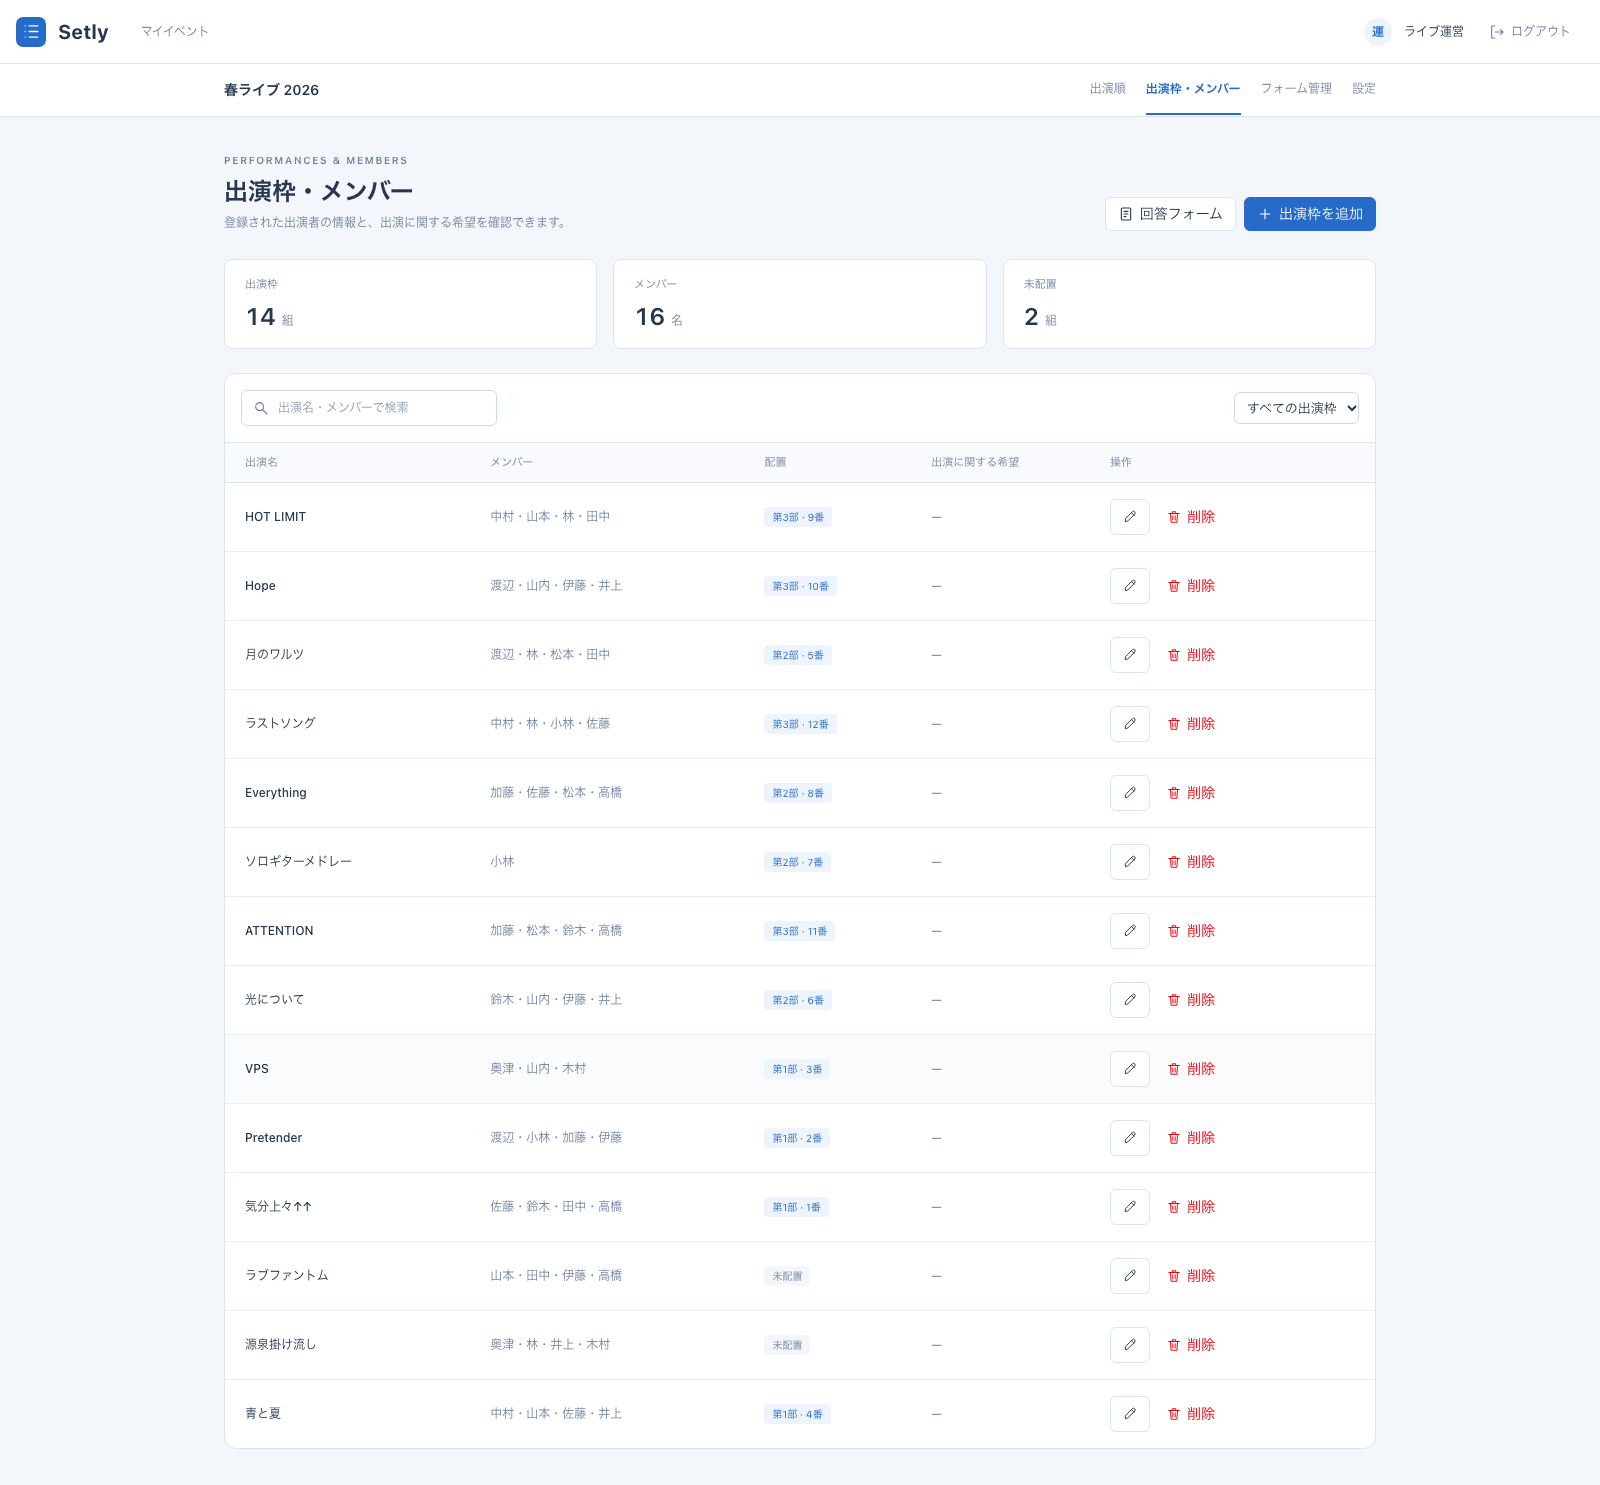
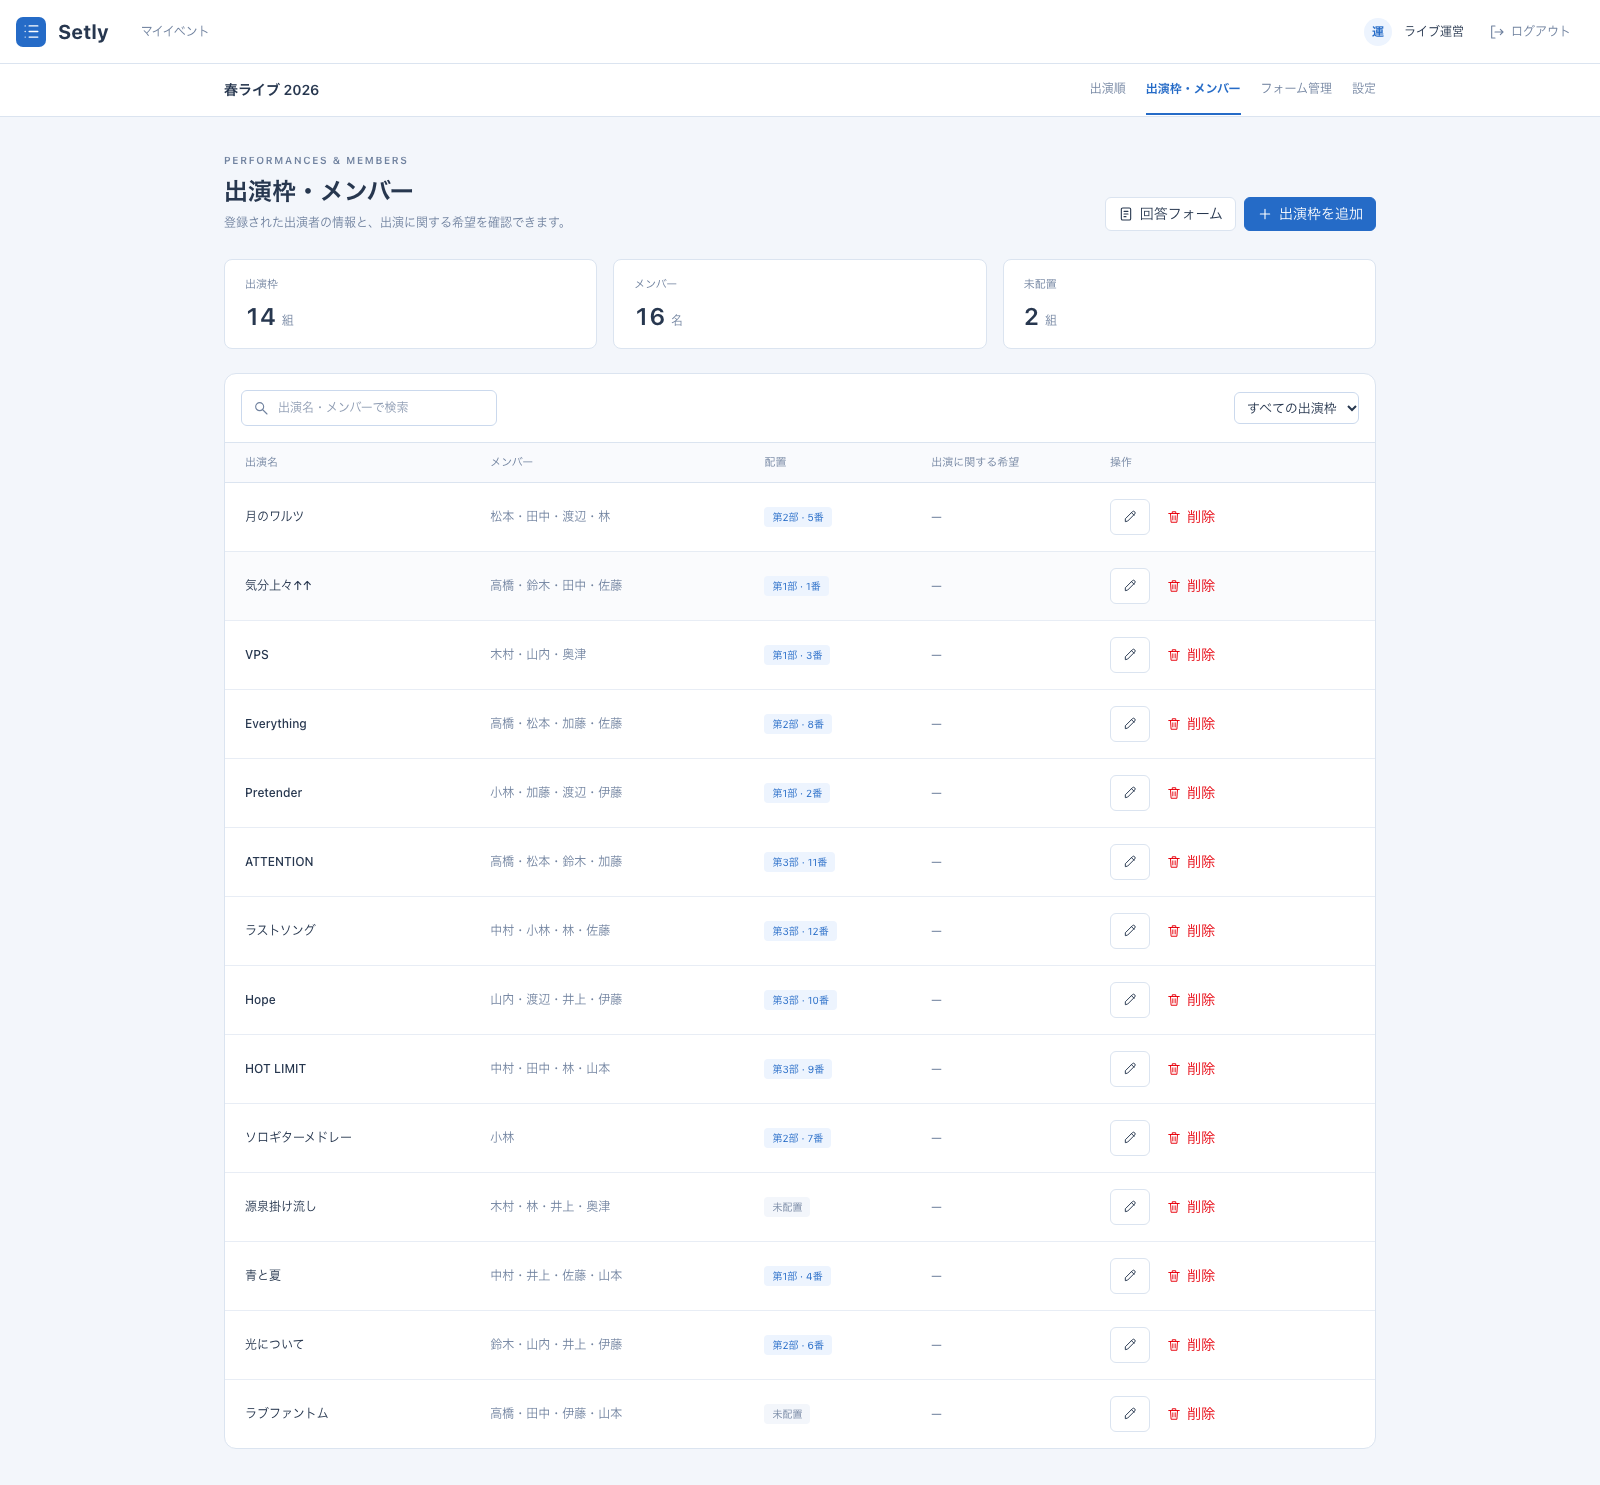
refs #88 バンド削除時に生成元の制約も削除する

diff --git a/apps/backend/test/routes/bands.test.ts b/apps/backend/test/routes/bands.test.ts
@@ -8,6 +8,7 @@ import {
   bandOrder,
   bands,
   chatMessages,
+  constraints,
   events,
   users,
 } from '../../src/db/schema'
@@ -94,7 +95,7 @@ it('deletes an assigned band and leaves a vacant slot and preserves every other 
     { bandId: 'a-b4', partId: 'a-p2', order: 0 },
   ])
 })
-it('can delete the final band while preserving the member roster, parts and constraints', async () => {
+it('can delete the final band while preserving the member roster, parts and constraints without a source', async () => {
   const before = (await snapshot())!
   expect((await remove('a-b1')).status).toBe(200)
   const revision = (await snapshot())!.event.updatedAt
@@ -107,19 +108,38 @@ it('can delete the final band while preserving the member roster, parts and cons
   expect(after.members).toHaveLength(1)
   expect(after.parts).toHaveLength(2)
   expect(after.constraints).toEqual(
-    before.constraints.map((row) => ({ ...row, sourceBandId: null })),
+    before.constraints.filter((row) => row.sourceBandId === null),
   )
 })
-it('deletes a referenced band, retaining constraint JSON and clearing only its source link', async () => {
+it('deletes all constraints sourced from the band, retaining target-only and other-source constraints', async () => {
+  await db.insert(constraints).values([
+    {
+      constraintId: 'a-c3',
+      eventId: seed.event.eventId,
+      sourceBandId: 'a-b1',
+      constraintJson: JSON.stringify({
+        ...seed.constraints.constraints[0].constraint,
+        constraint_id: 'a-c3',
+        enabled: false,
+        targets: { band_id: 'a-b2' },
+      }),
+    },
+    {
+      constraintId: 'a-c4',
+      eventId: seed.event.eventId,
+      sourceBandId: 'a-b2',
+      constraintJson: JSON.stringify({
+        ...seed.constraints.constraints[0].constraint,
+        constraint_id: 'a-c4',
+      }),
+    },
+  ])
   const before = (await snapshot())!
   expect((await remove('a-b1')).status).toBe(200)
   const after = (await snapshot())!
   expect(after.bands.map((band) => band.bandId)).toEqual(['a-b2'])
   expect(after.constraints).toEqual(
-    before.constraints.map((row) => ({
-      ...row,
-      sourceBandId: row.sourceBandId === 'a-b1' ? null : row.sourceBandId,
-    })),
+    before.constraints.filter((row) => row.sourceBandId !== 'a-b1'),
   )
   expect(after.members).toEqual(before.members)
 })

diff --git a/apps/frontend/src/features/participants/pages/ParticipantsPage.tsx b/apps/frontend/src/features/participants/pages/ParticipantsPage.tsx
@@ -174,7 +174,7 @@ export function ParticipantsPage() {
       {controller.deleteTarget && (
         <ConfirmDialog
           title="バンドを削除"
-          message={`「${controller.deleteTarget.name}」を削除しますか？所属・配置と希望も削除し、空いた出演枠は未設定のまま残します。メンバー名簿と他バンドの所属は残ります。この操作は取り消せません。`}
+          message={`「${controller.deleteTarget.name}」を削除しますか？所属・配置・希望と、このバンドの希望から作られた制約も削除し、空いた出演枠は未設定のまま残します。メンバー名簿と他バンドの所属は残ります。この操作は取り消せません。`}
           error={controller.deleteError}
           busy={controller.deleteBusy}
           onCancel={controller.cancelDelete}

diff --git a/apps/backend/src/repositories/bands.ts b/apps/backend/src/repositories/bands.ts
@@ -31,11 +31,8 @@ export function bandsRepository(
               updatedAt: sql`CASE WHEN ${events.createdUserId} = ${userId} AND ${events.isDeleted} = 0 AND ${events.updatedAt} = ${expected} AND ${exists(target)} THEN ${updatedAt} ELSE NULL END`,
             })
             .where(eq(events.eventId, eventId)),
-          // Keep the constraint JSON; only detach its foreign-key source metadata.
-          db
-            .update(constraints)
-            .set({ sourceBandId: null })
-            .where(eq(constraints.sourceBandId, bandId)),
+          // Delete constraints originating from this band; target-only references remain.
+          db.delete(constraints).where(eq(constraints.sourceBandId, bandId)),
           db
             .delete(bands)
             .where(and(eq(bands.bandId, bandId), eq(bands.eventId, eventId))),

diff --git a/apps/frontend/e2e/band-deletion.e2e.ts b/apps/frontend/e2e/band-deletion.e2e.ts
@@ -36,6 +36,7 @@ test('confirms or cancels band deletion, retains the roster and persists assigne
   await button.click()
   const dialog = page.getByRole('dialog', { name: 'バンドを削除', exact: true })
   await expect(dialog).toContainText('「Pretender」を削除しますか？')
+  await expect(dialog).toContainText('このバンドの希望から作られた制約も削除')
   await page.keyboard.press('Escape')
   await expect(dialog).toHaveCount(0)
   await expect(button).toBeFocused()

diff --git a/docs/frontend.md b/docs/frontend.md
@@ -44,7 +44,7 @@ URLのeventIdはDBに保存されたイベントID。存在しないイベント
 - 配置済みの出演枠は移動先へ挿入し、部内の実際の出演順を詰め直す。固定枠への直接配置や、他の固定枠の絶対位置が変わる移動は拒否する。未配置からの追加も同じ条件で検証する。
 - 「並べ替え」ハンドルにフォーカスし、Spaceで持ち上げ、上下の矢印で移動先を選び、Spaceで確定する。Escapeで取り消す。確定・取消後もハンドルにフォーカスが残る。番号入力でも同じ配置操作ができ、範囲外の入力は確定時に短いエラーを表示する。番号入力もEscapeで入力前の値に戻る。
 - 部数は1〜8、各部は1〜20枠。縮小で外れた出演枠は未配置へ移す。固定位置がずれる変更や、制約の位置・部参照が範囲外になる変更は拒否する。無効な条件も参照を保持するため、必要なら先に編集・削除する。
-- メンバー対象の間隔条件は名簿から出演枠を集め直す。バンド本体の削除は「出演枠・メンバー」の各行で編集リンク横の「削除」から行う。対象名と「削除しますか？」を確認し、確定した場合だけAPIへ送る。メンバー名簿・他バンドの所属は残し、空いた出演枠を未設定のまま残す。制約に参照されていても削除でき、制約本体は残る。
+- メンバー対象の間隔条件は名簿から出演枠を集め直す。バンド本体の削除は「出演枠・メンバー」の各行で編集リンク横の「削除」から行う。対象名と「削除しますか？」を確認し、確定した場合だけAPIへ送る。メンバー名簿・他バンドの所属は残し、空いた出演枠を未設定のまま残す。制約に参照されていても削除でき、このバンドの希望から作られた制約は一緒に削除し、それ以外の制約は残す。
 - 達成判定は現在の配置に対するもの。対象に未配置の出演枠があれば未判定、無効なら判定対象外。ソフト条件の重み付きスコア・最適性は扱わない。
 - CSVはUTF-8 BOM付き。部・順番号・出演名・メンバー・固定を出力し、未配置も末尾に含める。数式として解釈される先頭文字を含む値は文字列として出力する。
 

diff --git a/docs/product.md b/docs/product.md
@@ -36,7 +36,7 @@
 ## 現在のフロントエンド
 
 - 固定イベント・名簿・メモリ内ストア・モック切替は持たない。DBが空なら空の一覧を表示し、API失敗時はエラーを表示する。再読み込みでサンプルを復元しない。テスト専用の入力例や外部通信の差し替えはアプリの業務データとして使わない。
-- 出演登録フォームの初回登録・登録内容の更新は実APIへ保存し、管理画面でも同じ名簿を取得する。希望・連絡先・受付設定・回答履歴の保存、バンド本体の削除は管理画面で確認後に実行する。メンバー名簿と他バンドの所属は残し、制約参照があっても削除でき、制約本体は残す。CSV取込は後続。
+- 出演登録フォームの初回登録・登録内容の更新は実APIへ保存し、管理画面でも同じ名簿を取得する。希望・連絡先・受付設定・回答履歴の保存、バンド本体の削除は管理画面で確認後に実行する。メンバー名簿と他バンドの所属は残し、制約参照があっても削除でき、削除対象が生成元の制約は一緒に削除し、それ以外の制約は残す。CSV取込は後続。
 - 手動追加は6種類の条件から選び、対象・部・位置・数値・強さを入力し、日本語の要約を確認して追加する。自由文を条件として保存したり、チャット送信だけで制約を適用したりしない。
 - メンバーはIDで識別する。掛け持ちは登録済みのメンバーを選び、同名の別人は新しいメンバーとして登録する。
 - 現在の並びに対して制約ごとの達成・違反を判定する。対象が未配置なら未判定、無効なら判定から除外する。ソフト条件の合計点や優先度によるスコアは算出しない。

diff --git a/apps/backend/docs/api/bands.md b/apps/backend/docs/api/bands.md
@@ -14,9 +14,9 @@
 | リクエスト・レスポンス | application/json                                                         |
 | 所有者                 | 認証接続前は既存管理APIと同じ仮所有者 `demo-owner`。未削除イベントに限定 |
 
-バンド本体・希望原文・対象バンドの所属・配置を削除し、他バンドの`order`は変更せず、空いた位置を未設定のまま残す。メンバー名簿、他バンドの所属、部、制約、会話は保持する。最後のバンドも削除できる。
+バンド本体・希望原文・対象バンドの所属・配置を削除し、他バンドの`order`は変更せず、空いた位置を未設定のまま残す。メンバー名簿、他バンドの所属、部、生成元が異なる制約、会話は保持する。最後のバンドも削除できる。
 
-制約から参照されていても削除する。対象ID・位置指定・有効状態を含む制約JSONは変更しない。外部キーのある生成元sourceBandIdだけ、削除対象を指す場合に同じD1 batchでnullにする。削除後に存在しない対象を参照する制約や範囲外の指定が残ることを許容する。
+制約から参照されていても削除する。生成元sourceBandIdが削除対象を指す制約は、有効状態や対象IDにかかわらず同じD1 batchで削除する。生成元が異なる制約（生成元なしを含む）のJSONは変更しない。削除後に存在しない対象を参照する制約や範囲外の指定が残ることを許容する。
 
 ## リクエスト
 

diff --git a/docs/database.md b/docs/database.md
@@ -161,4 +161,4 @@ chat_messagesはmessage_idをPK、(event_id, seq)・reply_to_message_idをそれ
 
 通常の一括保存と公開フォームではBand・Memberを保持する。管理画面の明示的な確認後だけ、[バンド削除API](../apps/backend/docs/api/bands.md)でBandとその所属・配置を削除する。Memberは残す。既存のCASCADE定義を使い、スキーマ変更は行わない。
 
-制約からの参照や削除後の位置範囲にかかわらずバンドを削除する。制約JSONは保持し、削除対象を指すsource_band_idだけ同じbatch内でNULLにして外部キーを解除する。対象バンドの配置だけを削除し、他バンドのorderは変更しない。欠番は未設定の位置を表す。所有者・未削除状態・更新日時・バンド所属先を書込み時にも再確認し、失敗時は全体をロールバックする。
+制約からの参照や削除後の位置範囲にかかわらずバンドを削除する。source_band_idが削除対象を指す制約は、有効状態や対象IDにかかわらず同じbatch内で削除する。それ以外の制約JSONは保持する。対象バンドの配置だけを削除し、他バンドのorderは変更しない。欠番は未設定の位置を表す。所有者・未削除状態・更新日時・バンド所属先を書込み時にも再確認し、失敗時は全体をロールバックする。

diff --git a/apps/backend/docs/api/README.md b/apps/backend/docs/api/README.md
@@ -37,7 +37,7 @@ MarkdownのAPI定義書は[共通テンプレート](template.md)を使い、次
 
 実装済みのAPIは17操作。`Health`、`Events`、`Form`、`Schedule`、`Constraints`、`Chat`、`Solver`に分類する。チャット履歴GETと送信POSTは同じ`Chat`欄に表示する。
 
-- `Events`の`DELETE /api/events/{eventId}/bands/{bandId}`はバンド本体の削除。確認元の`expectedUpdatedAt`を渡す。制約参照があっても削除でき、制約JSONは保持する。生成元sourceBandIdだけ削除対象への参照を解除する。
+- `Events`の`DELETE /api/events/{eventId}/bands/{bandId}`はバンド本体の削除。確認元の`expectedUpdatedAt`を渡す。制約参照があっても削除でき、生成元sourceBandIdが削除対象を指す制約は一緒に削除する。それ以外の制約JSONは保持する。
 - `Form`のPATCHは名前と所属の編集で、空配列は全員の所属解除。こちらはバンドとメンバー本体を残す。
 - `Events`の`DELETE /api/events/{eventId}`はイベント全体の論理削除。バンド1件の削除には使わない。
 - `Form`のPOST／PATCHには具体的なリクエスト例を用意する。実行時はGETで得たイベントID・バンド／メンバーID・`updatedAt`へ差し替える。`expectedUpdatedAt`が古い場合は409となる。
